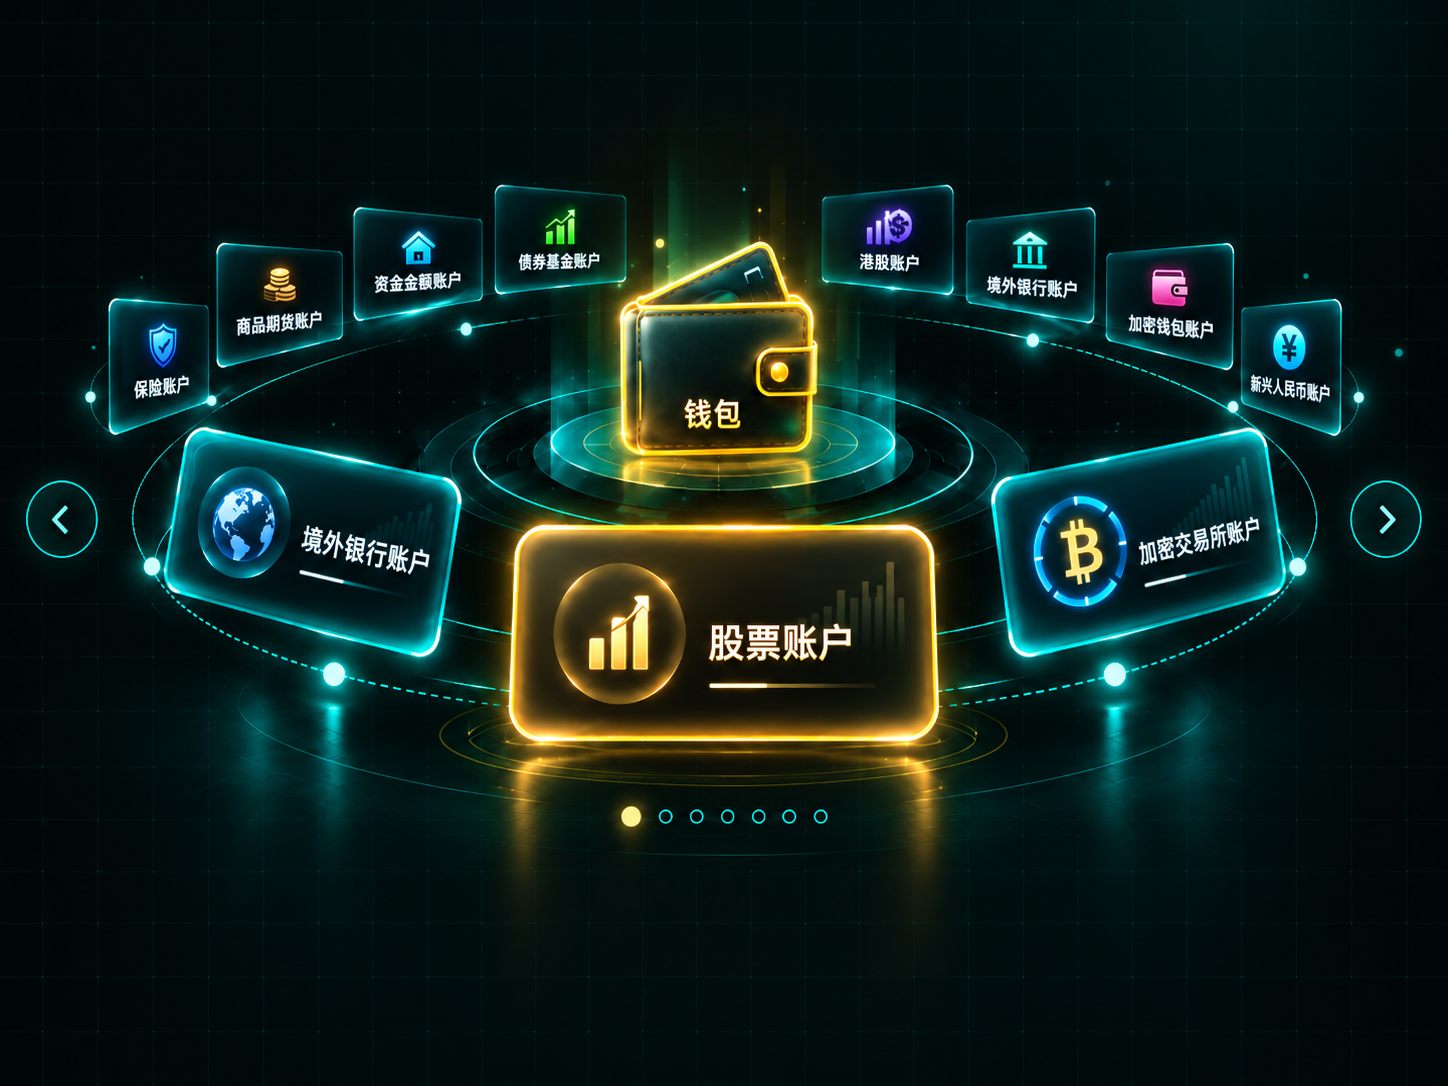
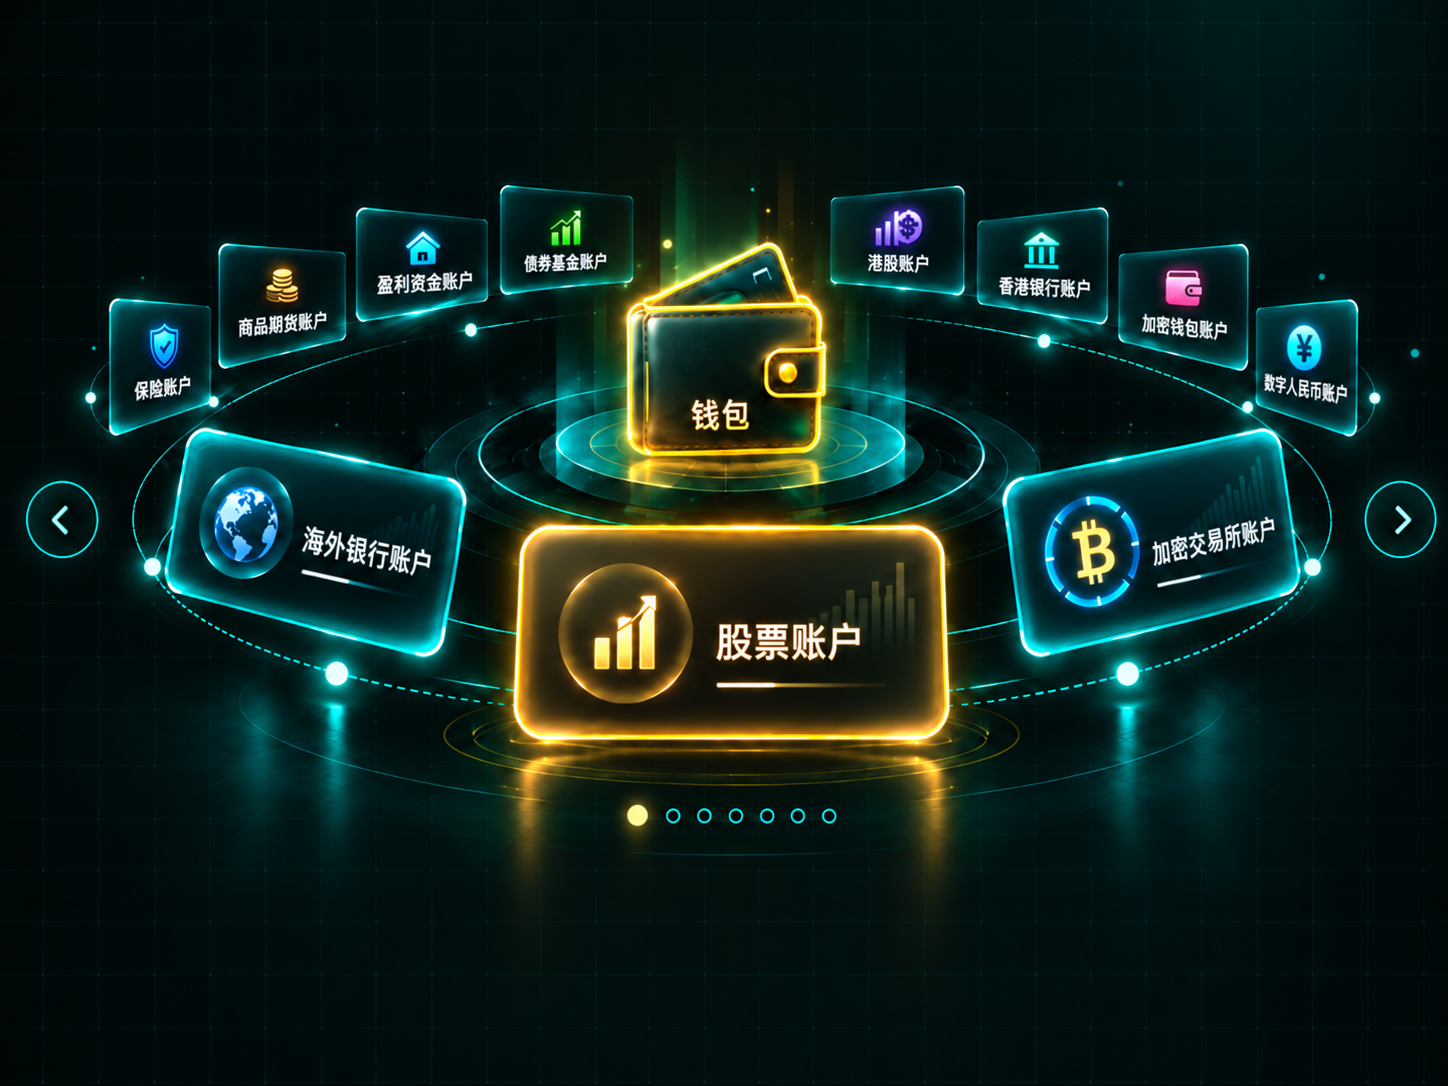
Update finance account orbit image

diff --git a/datasets/finance/secondary-market.html b/datasets/finance/secondary-market.html
@@ -55,7 +55,7 @@
         <article class="direction-card"><h3>大陆金融交易</h3><p>面向大陆市场的金融数据整理与交易研究，覆盖 A 股股票、债券基金、商品期货与股指期权等方向。</p><div class="direction-tags"><a class="direction-tag spot direction-link" href="./a-share-dividends.html"><strong>现货类</strong>A 股股票 / 债券基金</a><a class="direction-tag derivative direction-link" href="derivatives.html"><strong>衍生品类</strong>商品期货 / 股指期权</a><div class="direction-tag digital"><strong>数字资产</strong>数字人民币 / 区块链</div></div></article>
         <article class="direction-card"><h3>跨境金融交易</h3><p>以香港及海外市场为主要观察对象，关注港股、海外基金与数字资产等跨境金融数据。</p><div class="direction-tags"><a class="direction-tag spot direction-link" href="cross-border-spot.html"><strong>现货类</strong>港股 / 海外基金</a><a class="direction-tag digital direction-link" href="web3-framework.html"><strong>数字资产</strong>加密货币 / Web3</a></div></article>
       </div>
-      <figure class="account-overview"><img src="../../assets/images/web3/finance-account-orbit-overview.png" alt="以钱包为中心、各类金融账户环绕分布的钱包账户全景图"><svg class="orbit-scan" viewBox="0 0 1448 1086" preserveAspectRatio="xMidYMid meet" aria-hidden="true"><defs><filter id="orbitLaserGlow" x="-30%" y="-30%" width="160%" height="160%"><feGaussianBlur stdDeviation="8" result="blur"/><feMerge><feMergeNode in="blur"/><feMergeNode in="SourceGraphic"/></feMerge></filter></defs><ellipse class="orbit-scan-track" cx="724" cy="700" rx="590" ry="255"/><ellipse class="orbit-scan-beam" cx="724" cy="700" rx="590" ry="255"/></svg></figure>
+      <figure class="account-overview"><img src="../../assets/images/web3/finance-account-orbit-overview.png?v=20260910-1125" alt="以钱包为中心、各类金融账户环绕分布的钱包账户全景图"><svg class="orbit-scan" viewBox="0 0 1448 1086" preserveAspectRatio="xMidYMid meet" aria-hidden="true"><defs><filter id="orbitLaserGlow" x="-30%" y="-30%" width="160%" height="160%"><feGaussianBlur stdDeviation="8" result="blur"/><feMerge><feMergeNode in="blur"/><feMergeNode in="SourceGraphic"/></feMerge></filter></defs><ellipse class="orbit-scan-track" cx="724" cy="700" rx="590" ry="255"/><ellipse class="orbit-scan-beam" cx="724" cy="700" rx="590" ry="255"/></svg></figure>
     </section>
     <div class="container"><p class="risk-note">本页面仅用于金融数据学习、市场观察和策略研究展示，不构成任何投资建议。</p></div>
   </main>
